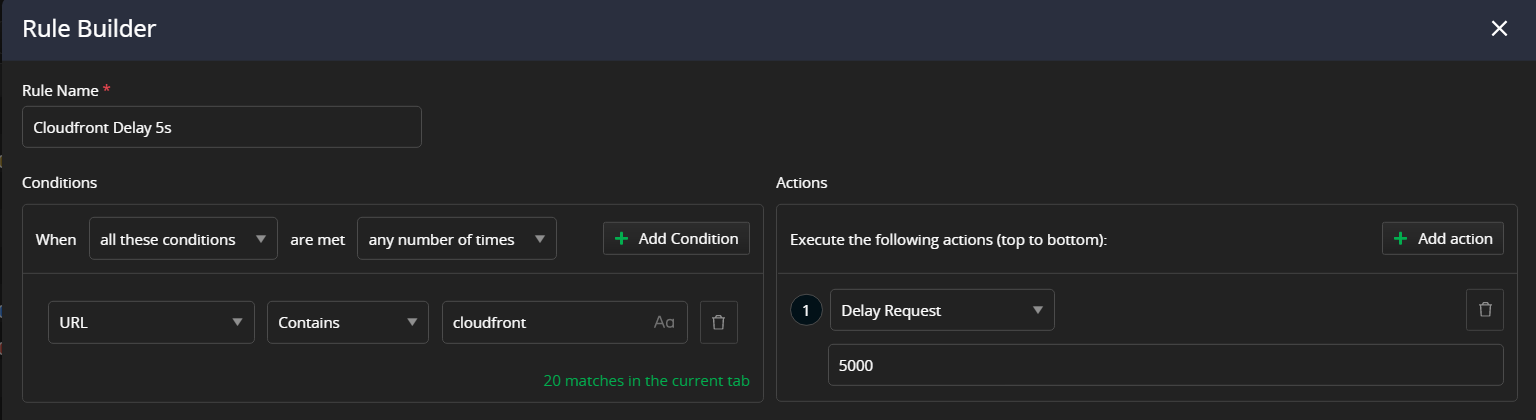
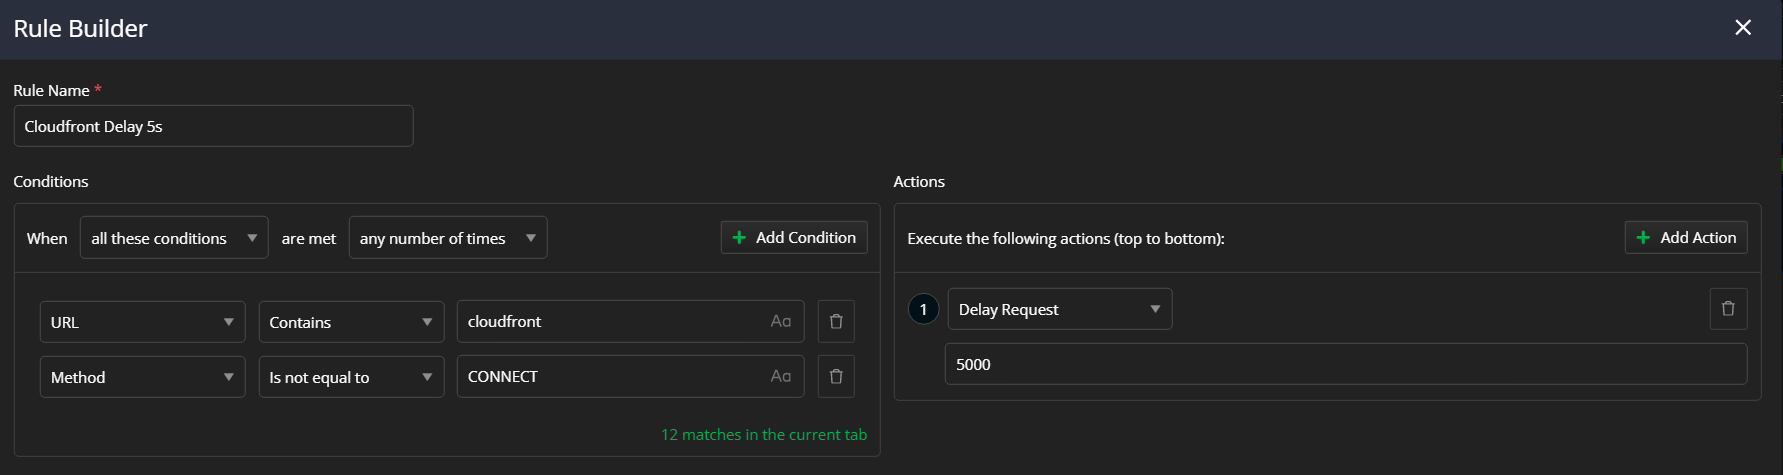
improve content

diff --git a/knowledge-base/real-life-fiddler-everywhere-usage.md b/knowledge-base/real-life-fiddler-everywhere-usage.md
@@ -7,19 +7,8 @@ publish: false
 res_type: kb
 ---
 
-## Environment
 
-|   |   |
-|---|---|
-| Product   |
-| Product Version | 1.0.0 and above  |
-| Operating System | macOS, Windows, Linux |
-
-## Description
-
-Apart from the technicality, what are the real-life examples where Fiddler can help?
-
-## Solution
+## Fiddler Everywhere Use Cases
 
 Fiddler Everywhere is far from being just another proxy tool. The latest version provides a comprehensive mechanism for inspecting the captured data, extracting statistical data, collaboration functionalities, mocking abilities, organized collections, and many more. Below we will cover some practical examples of how you can use and combine the tool's different features to your advantage during everyday work.
 
@@ -99,9 +88,11 @@ Technically, Fiddler Everywhere allows you to capture HTTP/HTTPS traffic, make m
 
 Let's assume that our page loads unexpectedly slowly for some reason, and we want to investigate what's causing the issue. Our demonstration uses the Fiddler Everywhere documentation landing page, as in the example in the previous section. To simulate the unexpected slow loading of resources, we will create a rule that mocks unexpected behavour byt the Cloudfront CDN (similar to the prevoius example).
 
-1. Create a rule that delays the Cloudfront CDN by 2.5 seconds. 
+1. Create a rule that delays the Cloudfront CDN by 5 seconds (5000 miliseconds).
 
     ![Delay Cloudfront CDN](../images/kb/real-life-cases/fe-rule-delay-cdn.png)
+
+    >tip Note taht the demo rules wil lbe applied for all endpoints that containst the **Cloudfront** keyword. At the same time, it won't be applied for any CONNECT tunnel which willprevent the doubling
 
 1. Ensure that both the **Rules** tab and the rule itself are active.
 
@@ -114,7 +105,7 @@ Let's assume that our page loads unexpectedly slowly for some reason, and we wan
 As a result, the login page will load with unwanted delay. In a real-life scenario, we can track which request/response has a longer duration (through the **Duration** column in the **Live Traffic** list of captured sessions) and then observe the **Overview** for clues.
 
 
-The above screenshots depict how we can extract information from the **Overview** tab. Our rule delayed the CDN loading by 5000 milliseconds. In the **Overview** tab and specifically in **Statistics** > **Request Details**, we can examine the **Times** values. The investigation shows the delay between the **Client Done Request** and **Fiddler Begin Request** events.
+The above screenshots depict how we can extract information from the **Overview** tab. Our rule delayed the CDN loading by 5000 milliseconds. In the **Overview** tab and specifically in **Statistics** > **Request Details**, we can examine the **Times** values. The investigation shows the delay between the **Client Connected** and **Server Connected** events.
 
 Voila - the reason for the delay is the MITM proxy (expected as we delayed the request on purpose through our own rule). In real life, this would be the place to observe if a request or response causes the delay and if the delay is caused by the client application, the server, or a third party.
 
